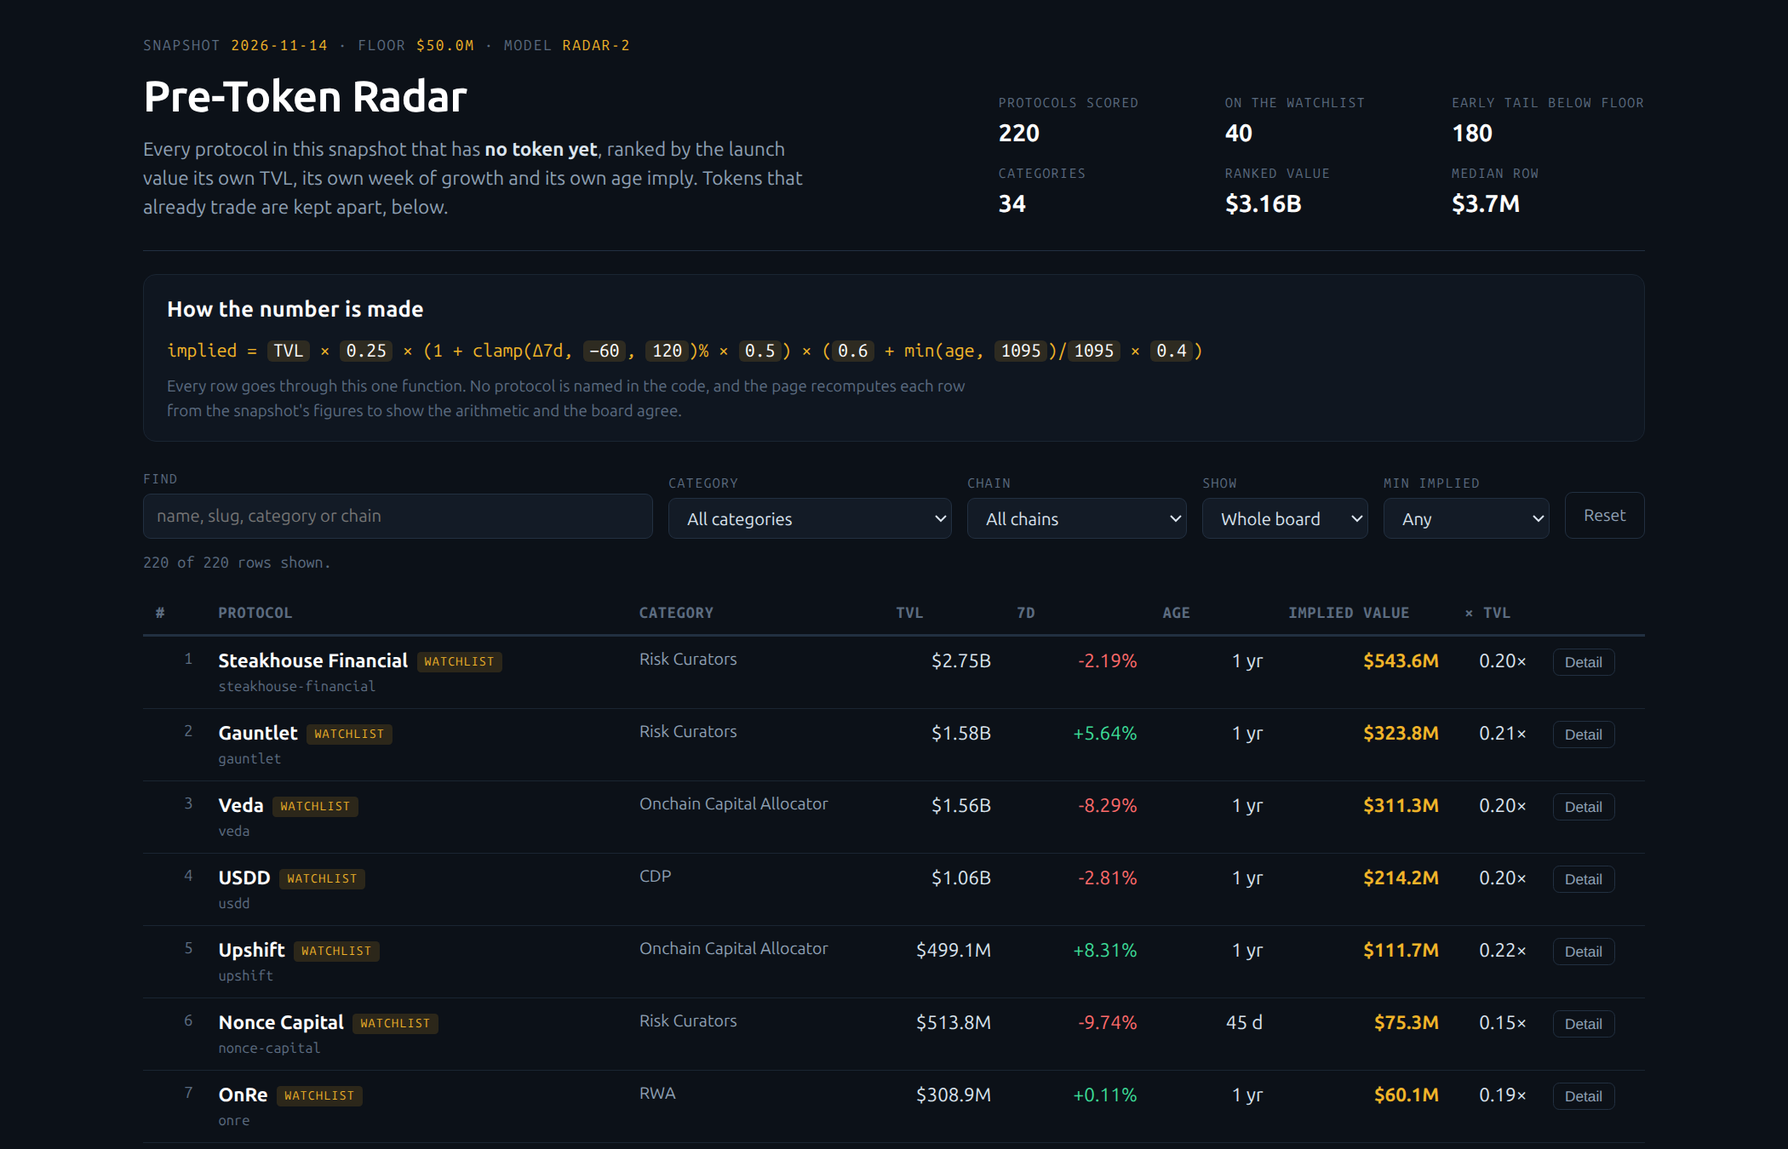
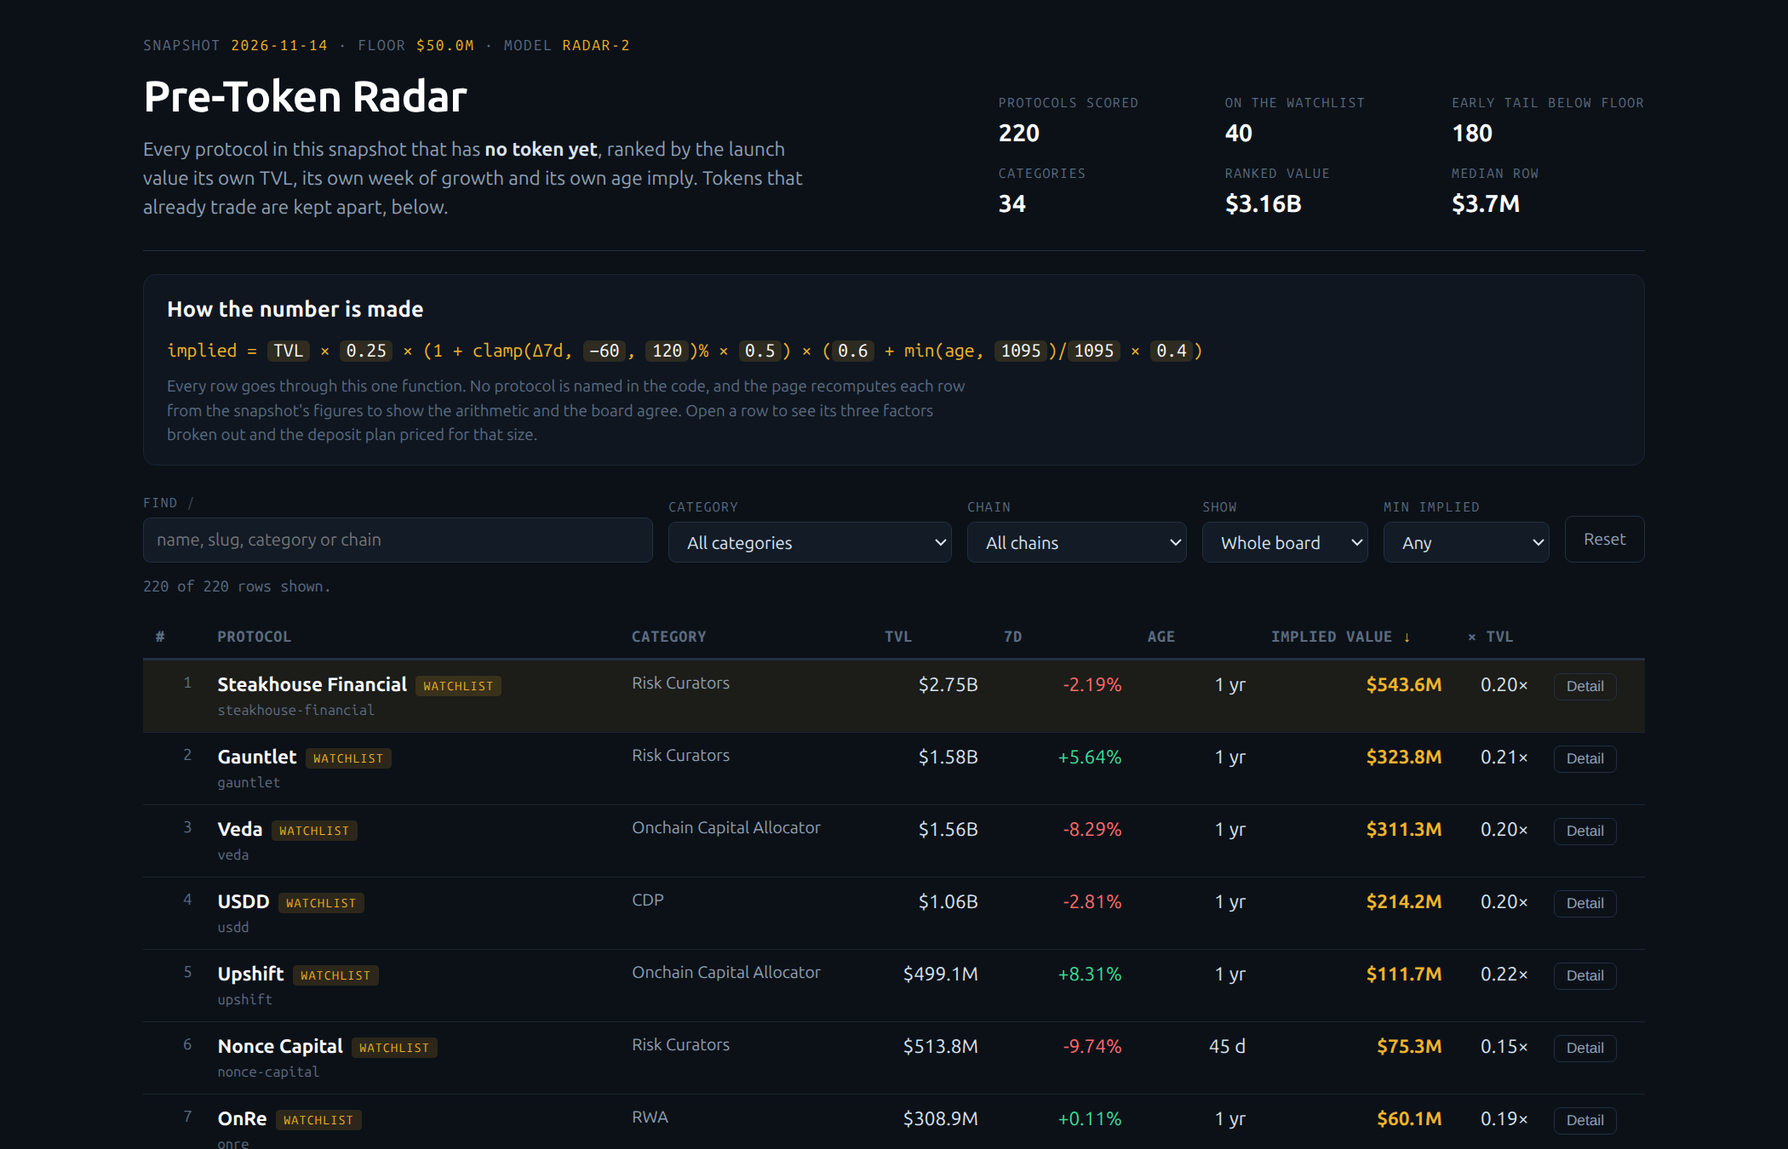
dashboard: rebuild the page around the implied-value column

diff --git a/dashboard/radar.js b/dashboard/radar.js
@@ -1,6 +1,7 @@
 // The radar page. It holds no network call: window.RADAR is the dataset main.ts wrote beside it, and
 // every number shown is read from that object. The page also recomputes each row's implied value from
-// the snapshot's own figures and flags any row where its arithmetic and the board's disagree.
+// the snapshot's own figures and flags any row where its arithmetic and the board's disagree, which
+// is how a reader can tell the table is not a list someone typed: it is the model, run again here.
 (function () {
   'use strict';
 
@@ -11,9 +12,10 @@
   }
 
   var MODEL = D.model;
-  var state = { q: '', cat: 'all', chain: 'all', scope: 'all', minv: 0, sort: 'implied', dir: -1, open: null };
+  var state = { q: '', cat: 'all', chain: 'all', scope: 'all', minv: 0, sort: 'implied', dir: -1, open: null, cursor: 0 };
 
   // ---- formatting -----------------------------------------------------------------------------
+  // One place where a number becomes a string, so the board, the drawer and the tally cannot drift.
 
   function money(n) {
     if (n === null || n === undefined || !isFinite(n)) return '—';
@@ -44,18 +46,29 @@
     });
   }
 
+  function dirClass(n) {
+    if (n === null || n === undefined) return 'flat';
+    return n > 0 ? 'up' : n < 0 ? 'down' : 'flat';
+  }
+
   // ---- the model, recomputed in the page -------------------------------------------------------
 
   // The same three multipliers the program applies, written from the constants data.js carries, so the
-  // page can prove the board it shows is the board the snapshot implies.
-  function revalue(row) {
+  // page can prove the board it shows is the board the snapshot implies. Nothing here knows a protocol
+  // by name: the input is a row, the output is a number.
+  function factors(row) {
     var growth = row.change_7d === null || row.change_7d === undefined ? 0 : row.change_7d;
     var g = Math.min(MODEL.growth_cap, Math.max(MODEL.growth_floor, growth));
     var gm = 1 + (g / 100) * MODEL.growth_weight;
     var age = row.age_days === null || row.age_days === undefined ? MODEL.unknown_age_days : row.age_days;
     var capped = Math.min(Math.max(age, 0), MODEL.maturity_days);
     var mm = MODEL.maturity_floor + (capped / MODEL.maturity_days) * MODEL.maturity_range;
-    return Math.max(1, Math.round(row.tvl_usd * MODEL.base_multiple * gm * mm));
+    return { growth_multiplier: gm, maturity_multiplier: mm, capped_age: capped };
+  }
+
+  function revalue(row) {
+    var f = factors(row);
+    return Math.max(1, Math.round(row.tvl_usd * MODEL.base_multiple * f.growth_multiplier * f.maturity_multiplier));
   }
 
   // ---- the header -----------------------------------------------------------------------------
@@ -90,12 +103,14 @@
   }
 
   // ---- the filters ----------------------------------------------------------------------------
+  // Built from the rows themselves, with counts, so a reader can see what each choice will leave.
 
   function fillSelects() {
     var cats = {}, chains = {};
     D.rows.forEach(function (r) {
-      cats[r.category || 'Unknown'] = (cats[r.category || 'Unknown'] || 0) + 1;
-      (r.chains.length ? r.chains : ['Unlisted']).forEach(function (c) { chains[c] = (chains[c] || 0) + 1; });
+      var c = r.category || 'Unknown';
+      cats[c] = (cats[c] || 0) + 1;
+      (r.chains.length ? r.chains : ['Unlisted']).forEach(function (ch) { chains[ch] = (chains[ch] || 0) + 1; });
     });
     function opt(k, n) { return '<option value="' + esc(k) + '">' + esc(k) + ' (' + n + ')</option>'; }
     var cat = document.getElementById('cat');
@@ -144,41 +159,54 @@
     });
   }
 
+  function paintSortMarks() {
+    document.querySelectorAll('th button[data-sort]').forEach(function (b) {
+      if (b.getAttribute('data-sort') === state.sort) b.setAttribute('data-dir', state.dir > 0 ? 'asc' : 'desc');
+      else b.removeAttribute('data-dir');
+    });
+  }
+
   // ---- the board ------------------------------------------------------------------------------
+  // The row keeps the rank the program gave it, so sorting a view never invents a new standing.
+
+  var visible = [];
 
   function paintRows() {
-    var list = sortRows(D.rows.filter(matches));
+    visible = sortRows(D.rows.filter(matches));
+    if (state.cursor >= visible.length) state.cursor = visible.length ? visible.length - 1 : 0;
+
     var body = document.getElementById('rows');
-    body.innerHTML = list.map(function (r) {
-      var miss = revalue(r) === r.implied_value_usd ? '' : ' class="drift"';
-      var up = r.change_7d === null ? 'flat' : r.change_7d > 0 ? 'up' : r.change_7d < 0 ? 'down' : 'flat';
-      return '<tr' + miss + ' data-slug="' + esc(r.slug) + '">' +
+    body.innerHTML = visible.map(function (r, i) {
+      var drift = revalue(r) === r.implied_value_usd ? '' : ' drift';
+      var sel = state.open === r.slug || i === state.cursor ? ' sel' : '';
+      return '<tr class="' + (drift ? 'drift' : '') + (sel ? ' sel' : '') + '" data-slug="' + esc(r.slug) + '">' +
         '<td class="num rank">' + r.rank + '</td>' +
         '<td><span class="pname">' + esc(r.name) + '</span>' +
           (r.on_watchlist ? '<span class="tag watch">watchlist</span>' : '<span class="tag early">early</span>') +
           '<span class="pslug">' + esc(r.slug) + '</span></td>' +
         '<td class="cat">' + esc(r.category || 'Unknown') + '</td>' +
         '<td class="num">' + money(r.tvl_usd) + '</td>' +
-        '<td class="num ' + up + '">' + pct(r.change_7d) + '</td>' +
+        '<td class="num ' + dirClass(r.change_7d) + '">' + pct(r.change_7d) + '</td>' +
         '<td class="num">' + years(r.age_days) + '</td>' +
-        '<td class="num strong">' + (r.implied_value_usd >= 1e12 ? '$' + (r.implied_value_usd / 1e12).toFixed(2) + 'T' : money(r.implied_value_usd)) + '</td>' +
+        '<td class="num strong">' + money(r.implied_value_usd) + '</td>' +
         '<td class="num">' + (r.value_per_tvl ? r.value_per_tvl.toFixed(2) + '×' : '—') + '</td>' +
         '<td class="act"><button class="open" type="button" data-open="' + esc(r.slug) + '">Detail</button></td>' +
         '</tr>';
     }).join('');
 
-    var empty = document.getElementById('empty');
-    empty.hidden = list.length > 0;
+    document.getElementById('empty').hidden = visible.length > 0;
     document.getElementById('countline').textContent =
-      list.length + ' of ' + D.rows.length + ' rows shown' +
+      visible.length + ' of ' + D.rows.length + ' rows shown' +
       (state.q ? ' · matching "' + state.q + '"' : '') +
       (state.cat !== 'all' ? ' · ' + state.cat : '') +
       (state.chain !== 'all' ? ' · on ' + state.chain : '') +
       (state.scope !== 'all' ? ' · ' + (state.scope === 'watch' ? 'watchlist only' : 'early tail only') : '') +
       (state.minv > 0 ? ' · implied ≥ ' + money(state.minv) : '') + '.';
+    paintSortMarks();
   }
 
   // ---- the live view --------------------------------------------------------------------------
+  // Protocols that already trade are shown, never scored: a launch that happened is not a launch to catch.
 
   function paintLive() {
     document.getElementById('live').innerHTML = D.live.map(function (p) {
@@ -186,12 +214,16 @@
         '<td class="cat">' + esc(p.category || 'Unknown') + '</td>' +
         '<td class="num">' + money(p.tvl_usd) + '</td>' +
         '<td class="num">' + money(p.mcap_usd) + '</td>' +
-        '<td class="num">' + (p.tvl_to_mcap === null ? '—' : p.tvl_to_mcap.toFixed(2) + '×') + '</td>' +
-        '<td class="num ' + (p.change_7d > 0 ? 'up' : p.change_7d < 0 ? 'down' : 'flat') + '">' + pct(p.change_7d) + '</td></tr>';
+        '<td class="num">' + (p.tvl_to_mcap === null || p.tvl_to_mcap === undefined ? '—' : p.tvl_to_mcap.toFixed(2) + '×') + '</td>' +
+        '<td class="num ' + dirClass(p.change_7d) + '">' + pct(p.change_7d) + '</td></tr>';
     }).join('');
   }
 
   // ---- the detail drawer ----------------------------------------------------------------------
+  // Every figure in the drawer is either read from the row or recomputed from the model, and the
+  // arithmetic line shows both paths agreeing.
+
+  var openPlan = '';
 
   function openDetail(slug) {
     var r = null;
@@ -199,32 +231,42 @@
     if (!r) return;
     state.open = slug;
 
-    document.getElementById('d-rank').textContent = 'Rank ' + r.rank + ' of ' + D.rows.length + (r.on_watchlist ? ' · on the watchlist' : ' · early tail');
+    document.getElementById('d-rank').textContent =
+      'Rank ' + r.rank + ' of ' + D.rows.length + (r.on_watchlist ? ' · on the watchlist' : ' · early tail');
     document.getElementById('d-name').textContent = r.name;
-    document.getElementById('d-meta').textContent = (r.category || 'Unknown') + ' · ' + (r.chains.length ? r.chains.join(', ') : 'chain not listed') + ' · listed ' + (r.age_days === null ? 'unknown' : r.age_days + ' days ago');
+    document.getElementById('d-meta').textContent = (r.category || 'Unknown') + ' · ' +
+      (r.chains.length ? r.chains.join(', ') : 'chain not listed') + ' · listed ' +
+      (r.age_days === null ? 'at an unknown date' : r.age_days + ' days ago');
 
     var figs = [
       ['Implied launch value', money(r.implied_value_usd)],
       ['TVL today', money(r.tvl_usd)],
       ['Value per TVL dollar', r.value_per_tvl ? r.value_per_tvl.toFixed(2) + '×' : '—'],
       ['Seven-day growth', pct(r.change_7d)],
-      ['Days without a token', r.age_days === null ? 'unknown' : String(r.age_days)]
+      ['Days without a token', r.age_days === null ? 'unknown' : String(r.age_days)],
+      ['Growth multiplier', r.growth_multiplier.toFixed(3)],
+      ['Maturity multiplier', r.maturity_multiplier.toFixed(3)],
+      ['Chains', r.chains.length ? String(r.chains.length) : '—']
     ];
     document.getElementById('d-figures').innerHTML = figs.map(function (f) {
       return '<div><dt>' + esc(f[0]) + '</dt><dd>' + esc(f[1]) + '</dd></div>';
     }).join('');
 
-    var age = r.age_days === null ? MODEL.unknown_age_days : r.age_days;
-    var capped = Math.min(Math.max(age, 0), MODEL.maturity_days);
+    var f = factors(r);
+    var atCap = f.capped_age === MODEL.maturity_days;
     document.getElementById('d-calc').innerHTML =
       '<p class="kicker">The arithmetic for this row</p>' +
       '<p class="eq">' + money(r.tvl_usd) + ' × ' + MODEL.base_multiple + ' × ' + r.growth_multiplier.toFixed(3) +
       ' × ' + r.maturity_multiplier.toFixed(3) + ' = <strong>' + money(r.implied_value_usd) + '</strong></p>' +
-      '<p class="note">The growth multiplier comes from ' + pct(r.change_7d) + ' clamped to [' + MODEL.growth_floor + ', ' + MODEL.growth_cap + ']% at weight ' + MODEL.growth_weight +
-      '. The maturity multiplier comes from ' + age + ' days' + (r.age_days === null ? ' (not listed, so the model takes ' + MODEL.unknown_age_days + ')' : '') +
-      ', capped at ' + MODEL.maturity_days + ' days, between ' + MODEL.maturity_floor + ' and ' + (MODEL.maturity_floor + MODEL.maturity_range).toFixed(1) + '.</p>' +
-      (capped === MODEL.maturity_days ? '<p class="note">This protocol has already reached full maturity: more time without a token no longer lifts its value.</p>' : '');
+      '<p class="note">The growth multiplier comes from ' + pct(r.change_7d) + ' clamped to [' + MODEL.growth_floor +
+      ', ' + MODEL.growth_cap + ']% at weight ' + MODEL.growth_weight + '. The maturity multiplier comes from ' +
+      (r.age_days === null ? MODEL.unknown_age_days + ' days taken as the age, since the listing date is unknown' : r.age_days + ' days') +
+      ', capped at ' + MODEL.maturity_days + ' days, between ' + MODEL.maturity_floor + ' and ' +
+      (MODEL.maturity_floor + MODEL.maturity_range).toFixed(1) + '.</p>' +
+      (atCap ? '<p class="note">This protocol has already reached full maturity: more time without a token no longer lifts its value. Its multiple now comes from size and one week of growth alone.</p>' : '') +
+      '<p class="note">Drift check: this page recomputes the row as ' + money(revalue(r)) + ' from the snapshot figures.</p>';
 
+    openPlan = r.plan.join('\n');
     document.getElementById('d-plan').innerHTML = r.plan.map(function (s) {
       return '<li>' + esc(s) + '</li>';
     }).join('');
@@ -232,12 +274,34 @@
     var drawer = document.getElementById('drawer');
     drawer.hidden = false;
     drawer.scrollIntoView({ behavior: 'smooth', block: 'start' });
+    paintRows();
   }
 
   function closeDetail() {
     state.open = null;
     document.getElementById('drawer').hidden = true;
+    paintRows();
   }
+
+  // ---- keyboard -------------------------------------------------------------------------------
+
+  function moveCursor(step) {
+    if (!visible.length) return;
+    state.cursor = Math.min(visible.length - 1, Math.max(0, state.cursor + step));
+    var tr = document.querySelector('#rows tr:nth-child(' + (state.cursor + 1) + ')');
+    if (tr) tr.scrollIntoView({ block: 'nearest' });
+    paintRows();
+  }
+
+  document.addEventListener('keydown', function (e) {
+    var inField = /^(INPUT|SELECT|TEXTAREA)$/.test(document.activeElement.tagName);
+    if (e.key === 'Escape') { closeDetail(); return; }
+    if (inField) return;
+    if (e.key === '/') { e.preventDefault(); document.getElementById('q').focus(); return; }
+    if (e.key === 'j') { e.preventDefault(); moveCursor(1); return; }
+    if (e.key === 'k') { e.preventDefault(); moveCursor(-1); return; }
+    if (e.key === 'Enter' && visible[state.cursor]) { e.preventDefault(); openDetail(visible[state.cursor].slug); }
+  });
 
   // ---- wiring ---------------------------------------------------------------------------------
 
@@ -248,7 +312,7 @@
   document.getElementById('minv').addEventListener('change', function (e) { state.minv = Number(e.target.value); paintRows(); });
   document.getElementById('reset').addEventListener('click', function () {
     state.q = ''; state.cat = 'all'; state.chain = 'all'; state.scope = 'all'; state.minv = 0;
-    state.sort = 'implied'; state.dir = -1;
+    state.sort = 'implied'; state.dir = -1; state.cursor = 0;
     document.getElementById('q').value = '';
     document.getElementById('cat').value = 'all';
     document.getElementById('chain').value = 'all';
@@ -273,6 +337,19 @@
     if (tr) openDetail(tr.getAttribute('data-slug'));
   });
   document.getElementById('d-close').addEventListener('click', closeDetail);
+
+  document.getElementById('d-copy').addEventListener('click', function () {
+    var b = this;
+    if (!openPlan) return;
+    function done(ok) {
+      b.textContent = ok ? 'Copied' : 'Press ⌘C';
+      b.classList.toggle('copied', ok);
+      setTimeout(function () { b.textContent = 'Copy'; b.classList.remove('copied'); }, 1600);
+    }
+    if (navigator.clipboard && navigator.clipboard.writeText) {
+      navigator.clipboard.writeText(openPlan).then(function () { done(true); }, function () { done(false); });
+    } else done(false);
+  });
 
   paintHeader();
   fillSelects();

diff --git a/dashboard/index.html b/dashboard/index.html
@@ -21,12 +21,12 @@
 <section class="formula" aria-labelledby="fhead">
   <h2 id="fhead">How the number is made</h2>
   <p class="eq">implied = <span>TVL</span> × <span id="f-base">0.25</span> × (1 + clamp(Δ7d, <span id="f-gf">−60</span>, <span id="f-gc">120</span>)% × <span id="f-gw">0.5</span>) × (<span id="f-mf">0.6</span> + min(age, <span id="f-md">1095</span>)/<span id="f-md2">1095</span> × <span id="f-mr">0.4</span>)</p>
-  <p class="note">Every row goes through this one function. No protocol is named in the code, and the page recomputes each row from the snapshot's figures to show the arithmetic and the board agree.</p>
+  <p class="note">Every row goes through this one function. No protocol is named in the code, and the page recomputes each row from the snapshot's figures to show the arithmetic and the board agree. Open a row to see its three factors broken out and the deposit plan priced for that size.</p>
 </section>
 
 <nav class="controls" aria-label="Filters">
   <div class="field grow">
-    <label for="q">Find</label>
+    <label for="q">Find <span class="hint">/</span></label>
     <input id="q" type="search" placeholder="name, slug, category or chain" autocomplete="off">
   </div>
   <div class="field">
@@ -63,14 +63,14 @@
   <table class="board">
     <thead>
       <tr>
-        <th class="num"><button data-sort="rank">#</button></th>
-        <th><button data-sort="name">Protocol</button></th>
-        <th><button data-sort="category">Category</button></th>
-        <th class="num"><button data-sort="tvl">TVL</button></th>
-        <th class="num"><button data-sort="change">7d</button></th>
-        <th class="num"><button data-sort="age">Age</button></th>
-        <th class="num"><button data-sort="implied">Implied value</button></th>
-        <th class="num"><button data-sort="ratio">× TVL</button></th>
+        <th class="num"><button data-sort="rank" aria-label="Sort by rank">#</button></th>
+        <th><button data-sort="name" aria-label="Sort by name">Protocol</button></th>
+        <th><button data-sort="category" aria-label="Sort by category">Category</button></th>
+        <th class="num"><button data-sort="tvl" aria-label="Sort by TVL">TVL</button></th>
+        <th class="num"><button data-sort="change" aria-label="Sort by 7 day change">7d</button></th>
+        <th class="num"><button data-sort="age" aria-label="Sort by age">Age</button></th>
+        <th class="num"><button data-sort="implied" aria-label="Sort by implied value">Implied value</button></th>
+        <th class="num"><button data-sort="ratio" aria-label="Sort by implied over TVL">× TVL</button></th>
         <th class="act"></th>
       </tr>
     </thead>
@@ -90,7 +90,7 @@
   </table>
 </section>
 
-<aside class="drawer" id="drawer" hidden aria-live="polite">
+<aside class="drawer" id="drawer" hidden aria-live="polite" aria-label="Protocol detail">
   <div class="drawer-head">
     <div>
       <p class="kicker" id="d-rank">—</p>
@@ -101,12 +101,12 @@
   </div>
   <dl class="d-figures" id="d-figures"></dl>
   <div class="d-calc" id="d-calc"></div>
-  <h3>The farm plan</h3>
+  <h3>The farm plan <button class="ghost tiny" id="d-copy" type="button">Copy</button></h3>
   <ol class="plan" id="d-plan"></ol>
 </aside>
 
 <footer>
-  <p>Every figure on this page comes from one sealed snapshot (<span id="fsource">—</span>) and one arithmetic. The page holds no network call: it renders the dataset the program wrote.</p>
+  <p>Every figure on this page comes from one sealed snapshot (<span id="fsource">—</span>) and one arithmetic. The page holds no network call: it renders the dataset the program wrote. Keys: <span class="kbd">/</span> find, <span class="kbd">j</span> <span class="kbd">k</span> move, <span class="kbd">enter</span> open, <span class="kbd">esc</span> close.</p>
 </footer>
 
 <script src="../data.js"></script>

diff --git a/dashboard/radar.css b/dashboard/radar.css
@@ -1,5 +1,5 @@
 /* Pre-Token Radar. A dark trading-floor palette with one signal color: everything that is not a
-   number or a name is quiet, so the implied value column reads first. */
+   number or a name stays quiet, so the implied value column reads first. */
 
 :root {
   --bg: #0c1118;
@@ -104,6 +104,7 @@ a { color: var(--blue); }
 .field { display: flex; flex-direction: column; gap: 3px; }
 .field.grow { flex: 1 1 240px; }
 .field label { font-family: var(--mono); font-size: 10.5px; text-transform: uppercase; letter-spacing: 1px; color: var(--ink-faint); }
+.field .hint { color: var(--ink-faint); opacity: 0.6; }
 .field input, .field select {
   background: var(--panel);
   border: 1px solid var(--line);
@@ -126,6 +127,7 @@ button.ghost {
   cursor: pointer;
 }
 button.ghost:hover { border-color: var(--gold); color: var(--gold); }
+button.ghost.tiny { padding: 2px 9px; font-size: 11px; margin-left: 6px; vertical-align: 2px; }
 
 .countline { margin: 2px 0 12px; font-family: var(--mono); font-size: 12px; color: var(--ink-faint); min-height: 1.2em; }
 
@@ -150,9 +152,12 @@ button.ghost:hover { border-color: var(--gold); color: var(--gold); }
   padding: 0;
 }
 .board th button:hover { color: var(--gold); }
+.board th button[data-dir="asc"]::after { content: ' ↑'; color: var(--gold); }
+.board th button[data-dir="desc"]::after { content: ' ↓'; color: var(--gold); }
 .board td { padding: 8px 10px; border-bottom: 1px solid var(--line-soft); vertical-align: top; }
 .board tbody tr { cursor: pointer; }
 .board tbody tr:hover { background: rgba(98, 168, 255, 0.05); }
+.board tbody tr.sel { background: rgba(240, 180, 41, 0.07); }
 .board tbody tr.drift { outline: 1px dashed var(--red); outline-offset: -1px; }
 .num { text-align: right; font-variant-numeric: tabular-nums; white-space: nowrap; }
 .strong { font-weight: 700; color: var(--gold); font-size: 15px; }
@@ -224,9 +229,18 @@ button.open:hover { color: var(--gold); border-color: var(--gold); }
 .d-calc .note { font-size: 12.5px; }
 .plan { margin: 8px 0 0; padding-left: 22px; }
 .plan li { margin: 0 0 12px; font-size: 13.5px; color: var(--ink); line-height: 1.55; }
+.copied { color: var(--green); }
 
 footer { margin-top: 46px; padding-top: 16px; border-top: 1px solid var(--line); }
 footer p { font-size: 12px; color: var(--ink-faint); max-width: 88ch; }
+.kbd {
+  font-family: var(--mono);
+  font-size: 11px;
+  border: 1px solid var(--line);
+  border-radius: 3px;
+  padding: 0 4px;
+  color: var(--ink-dim);
+}
 
 @media (max-width: 860px) {
   body { padding: 18px 14px 50px; }
